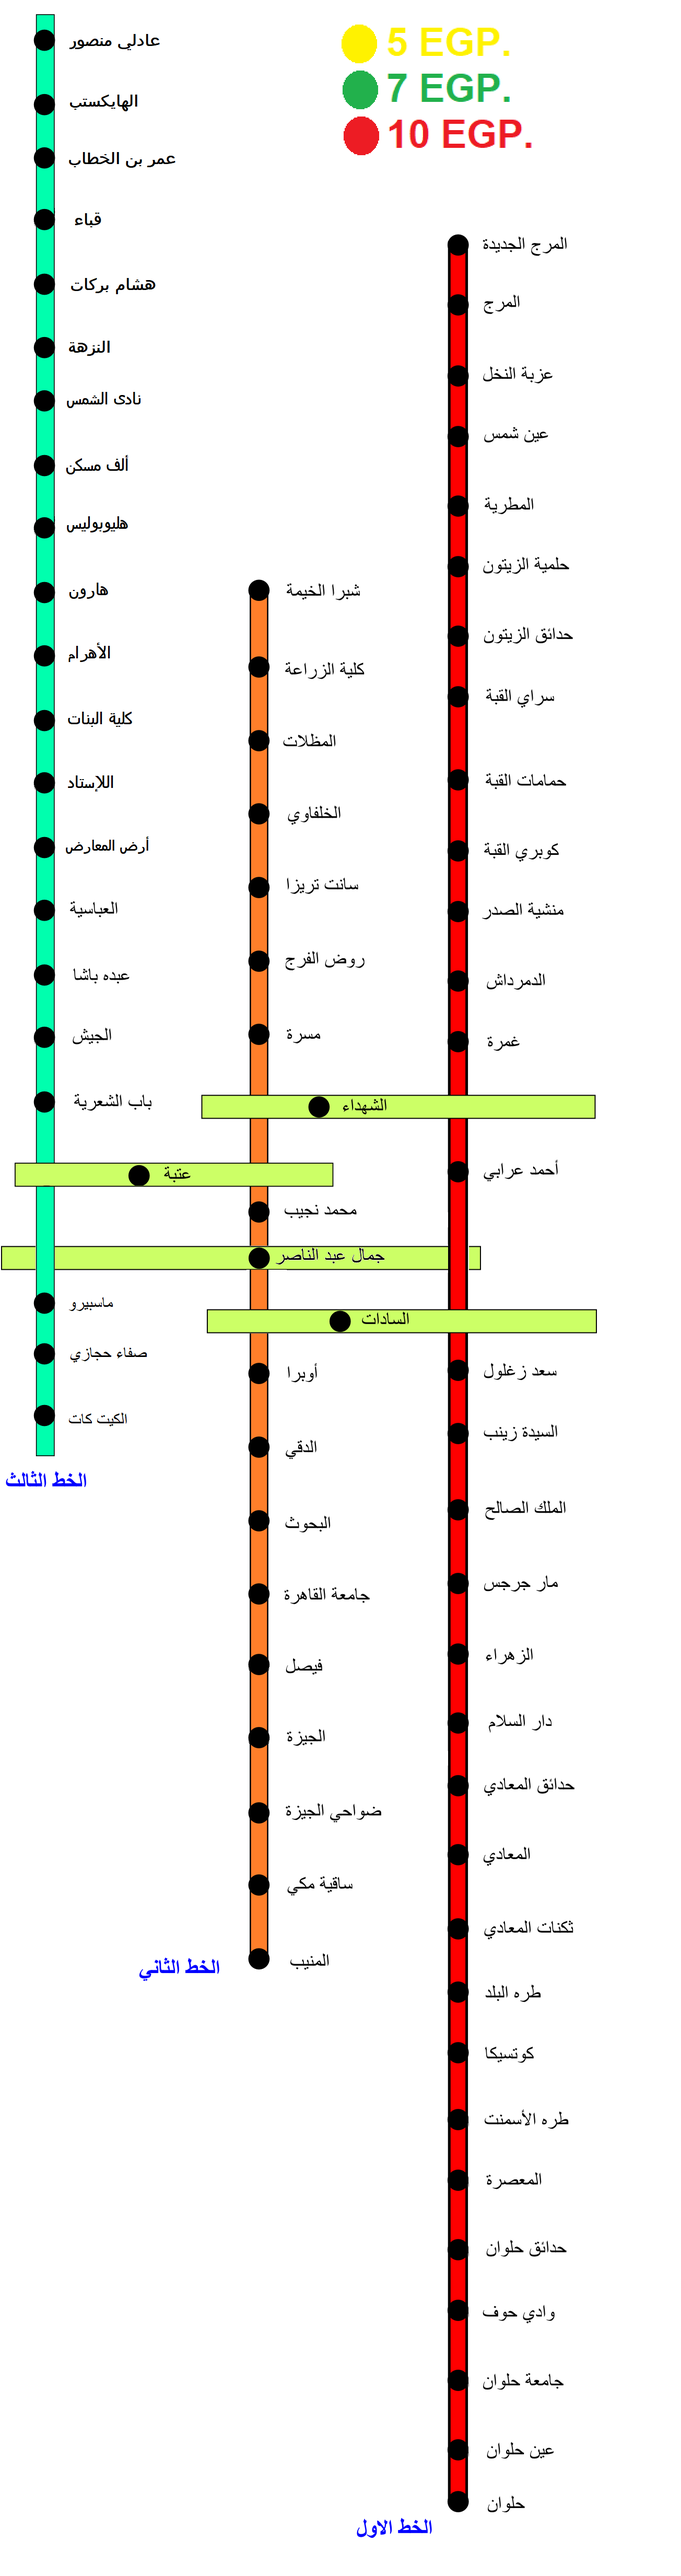
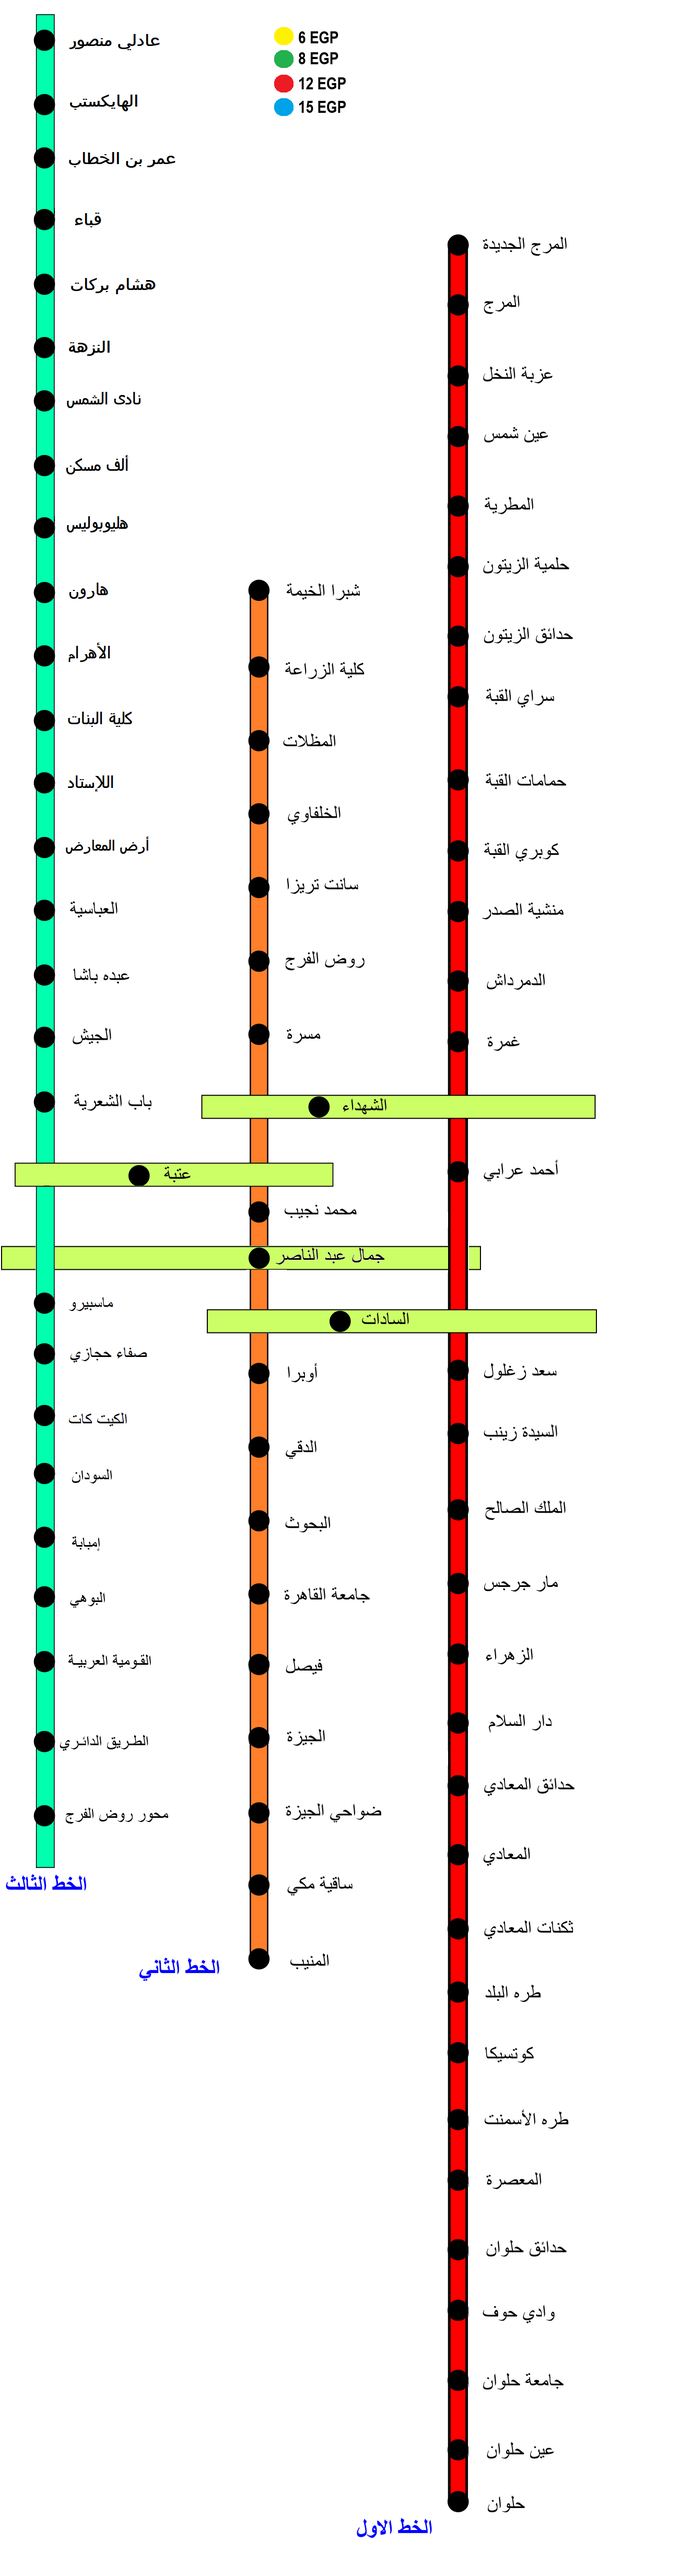
Updated prices and Map

Changed region(s): [[0.3988, 0.0, 0.7669, 0.0625], [0.0307, 0.5623, 0.1227, 0.7497]]

diff --git a/Pages/index.razor.css b/Pages/index.razor.css
@@ -71,6 +71,9 @@ body {
 .yellow:before {
     border-color: yellow;
  }
+.blue:before {
+    border-color: blue;
+}
 .black:before {
     border-color: black;
  }

diff --git a/_Imports.cs b/_Imports.cs
@@ -83,6 +83,12 @@ public static class Loaders
         new(22, "Bab El Shaaria", Line3, "top:42.2%; left:4.55%;"),
         new(19, "Maspero", Line3, "top:50%; left:4.55%;"),
         new(18, "Safaa Hijazy", Line3, "top:52%; left:4.55%;"),
-        new(17, "Kit-Kat", Line3, "top:54.5%; left:4.55%;")
+        new(17, "Kit-Kat", Line3, "top:54.5%; left:4.55%;"),
+        new(16, "Sudan", Line3, "top:56.7%; left:4.55%;"),
+        new(15, "Imbaba", Line3, "top:59.25%; left:4.55%;"),
+        new(14, "El-Bohy", Line3, "top:61.5%; left:4.55%;"),
+        new(13, "El-Qawmia", Line3, "top:64%; left:4.55%;"),
+        new(12, "Ring Road", Line3, "top:67%; left:4.55%;"),
+        new(11, "Rod El Fara Corridor", Line3, "top:70%; left:4.55%;"),
     ];
 }
